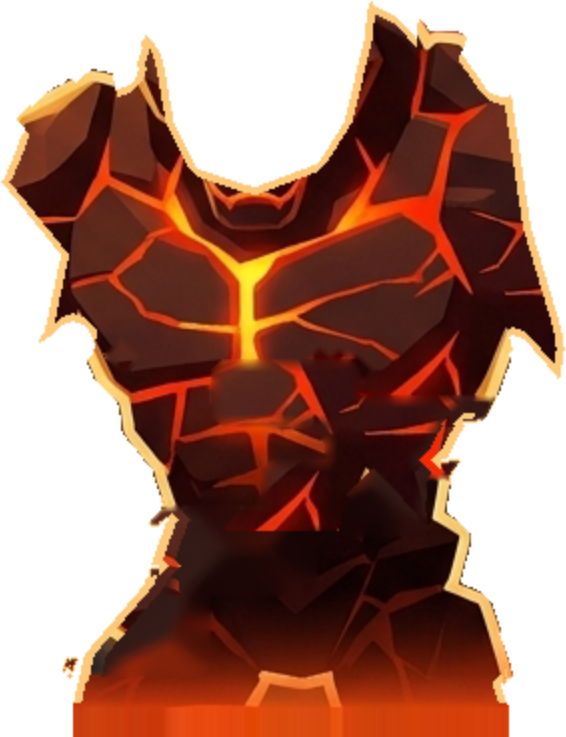
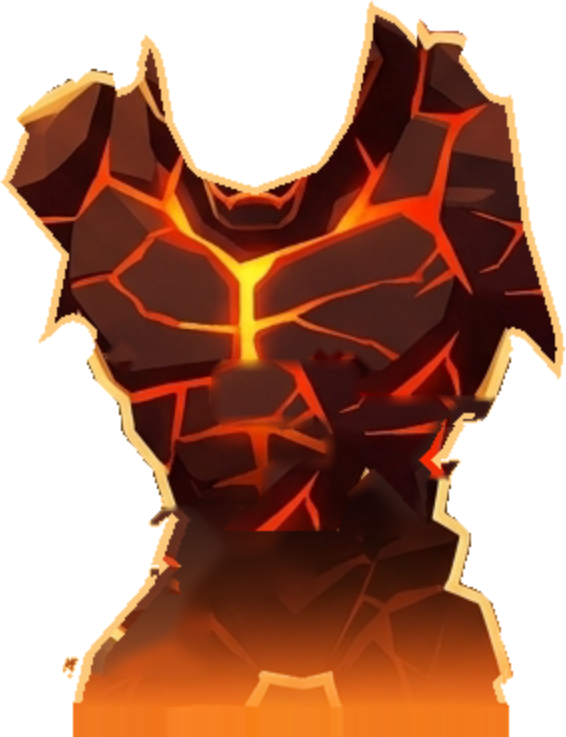
checker r2 iter 13: TARGET's lava up-light on the jackal's lower body
Claude-Session: https://claude.ai/code/session_012LmehBPujySgAnyC4BLP3j

Changed region(s): [[0.1201, 0.749, 0.9011, 1.0]]

diff --git a/tools/beast_rig.py b/tools/beast_rig.py
@@ -47,6 +47,9 @@ FIGURE_X = (140, 830)
 # Where TARGET's stones cross the body.
 STONE_BOX = [(330, 355), (648, 355), (648, 530), (330, 530)]
 INPAINT_STONES = True
+UPLIGHT = 0.75
+UPLIGHT_SPAN = 110
+UPLIGHT_COLOR = (255, 105, 25)
 ROCK_DARK = (52, 26, 22)
 # Each of TARGET's slabs over the body, (x0, y0, x1, y1), read off a 3x crop
 # of TARGET.png. The grey test alone missed their orange-lit undersides and
@@ -243,6 +246,17 @@ def paint_hidden(T, m, line, walls):
             filled[ys, xs] = np.where(use, filled[ys, xs] * (1 - a) + src_px * a, filled[ys, xs])
         patch[hard] = np.clip(filled[hard], 0, 255).astype(np.uint8)
     out = patch.astype(float)
+    # TARGET's lava up-light: the bottom of the torso glows orange into the
+    # cut. In the fight the floor's lava strip hides the sprite's last rows,
+    # where TARGET's own glow lives, so the lower body read as an unlit dark
+    # blob (r2 iter 13, both critics). Screen a warm ramp over the lower body
+    # so the glow starts above what the floor hides.
+    if UPLIGHT:
+        yy = np.arange(m.shape[0], dtype=float)[:, None]
+        ramp = np.clip((yy - (CUT - UPLIGHT_SPAN)) / UPLIGHT_SPAN, 0, 1) ** 1.6 * UPLIGHT
+        ramp = np.where(m, ramp, 0.0)[..., None]
+        warm = np.array(UPLIGHT_COLOR, float)
+        out = 255.0 - (255.0 - out) * (1.0 - ramp * warm / 255.0)
     # The silhouette's own line, wherever the cut-out has none (behind the
     # stones, where the walls run): a band as wide as TARGET's rim.
     band = m & ~ndi.binary_erosion(m, iterations=5)

diff --git a/design/match-log/log.md b/design/match-log/log.md
@@ -104,3 +104,10 @@ Waiting for the builder's `## Round 2` heading.
 - Changed: the belly smudge (A #2, B #1). Iter 11's inpaint filled the slab holes with a dark blur. `beast_rig.py` now lays TARGET's own cracked rock over each hole from the cleanest sideways/diagonal offset (never straight up — that lands on the sternum and paints a second Y; a yellow-heat penalty too), feathered 7 px into the inpaint. Regenerated `cinder_jackal_2d.png` / `_torso.png`.
 - Tests: ALL TESTS PASSED. Art only.
 - Meshy: 0 credits.
+
+### iter 13
+- Critic A top 3: [MAJOR] lower-body artifacts — black shards and a dark gap under the stones, white fringe on the right arm/leg; [MAJOR] staircase steep and bunched over the belly; [MAJOR] frog too high and big, pedestal invisible.
+- Critic B top 3: [MAJOR] HUD ~1.5–2x too big, hand covers the pedestal; [MAJOR] hand flat, glowing; [MAJOR] lower torso fades to a dark blob with no cracks or lava up-light.
+- Changed: the dark lower body (A #1, B #3 — highest combined rank). TARGET's up-light lives in the sprite's last rows, which the floor's lava strip hides in the fight, so the lower torso read unlit. `beast_rig.py` now screens a warm ramp (`UPLIGHT` 0.75 of (255,105,25), over the 110 px above the cut) onto the body, so the glow starts above what the floor hides. Regenerated the rig PNGs. The "black shards" are the cliffs seen through the gap between the flank and the arm (TARGET's own silhouette); the white specks are falling ember particles — both left.
+- Tests: ALL TESTS PASSED. Art only.
+- Meshy: 0 credits.
